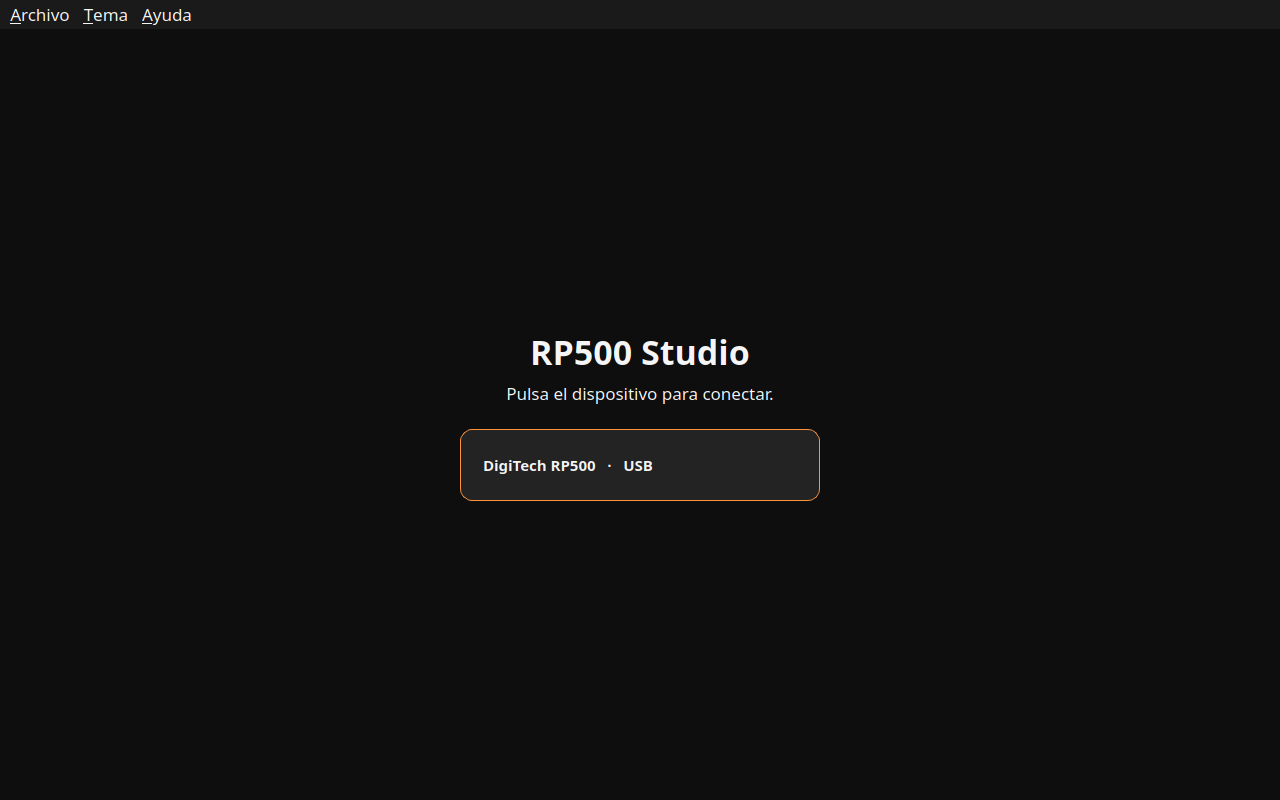
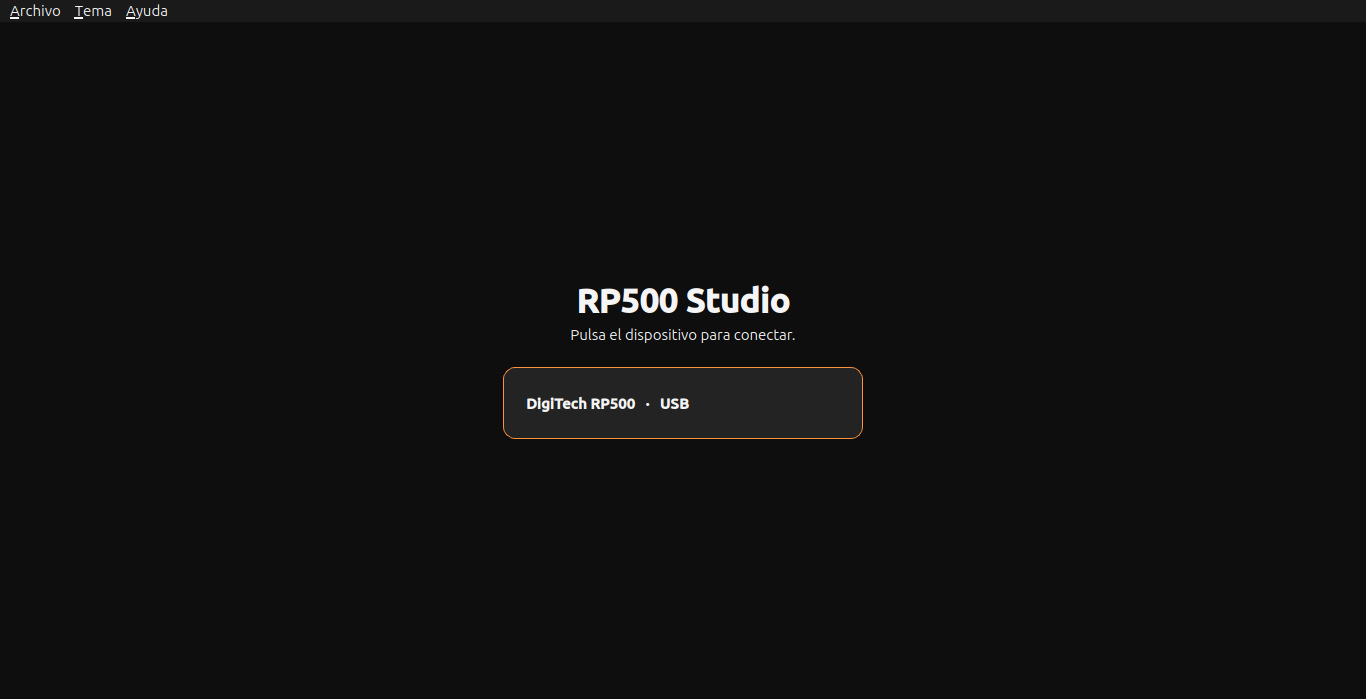
Use screenshots of the running app

Changed region(s): [[0.375, 0.3906, 0.625, 0.5408], [0.3438, 0.5708, 0.6562, 0.6309], [0.0, 0.0, 0.1562, 0.03]]

diff --git a/README.md b/README.md
@@ -10,11 +10,11 @@ buttons (one colour per effect) and hardware knobs with LED rings.
 
 ## Screenshots
 
-![Editing the amplifier block](docs/amp.png)
+![Editing the delay block](docs/delay.png)
 
-| Connection screen | Delay block |
+| Connection screen | Reverb block |
 |---|---|
-| ![Connection screen](docs/connect.png) | ![Editing the delay block](docs/delay.png) |
+| ![Connection screen](docs/connect.png) | ![Editing the reverb block](docs/reverb.png) |
 
 ## What it does
 
